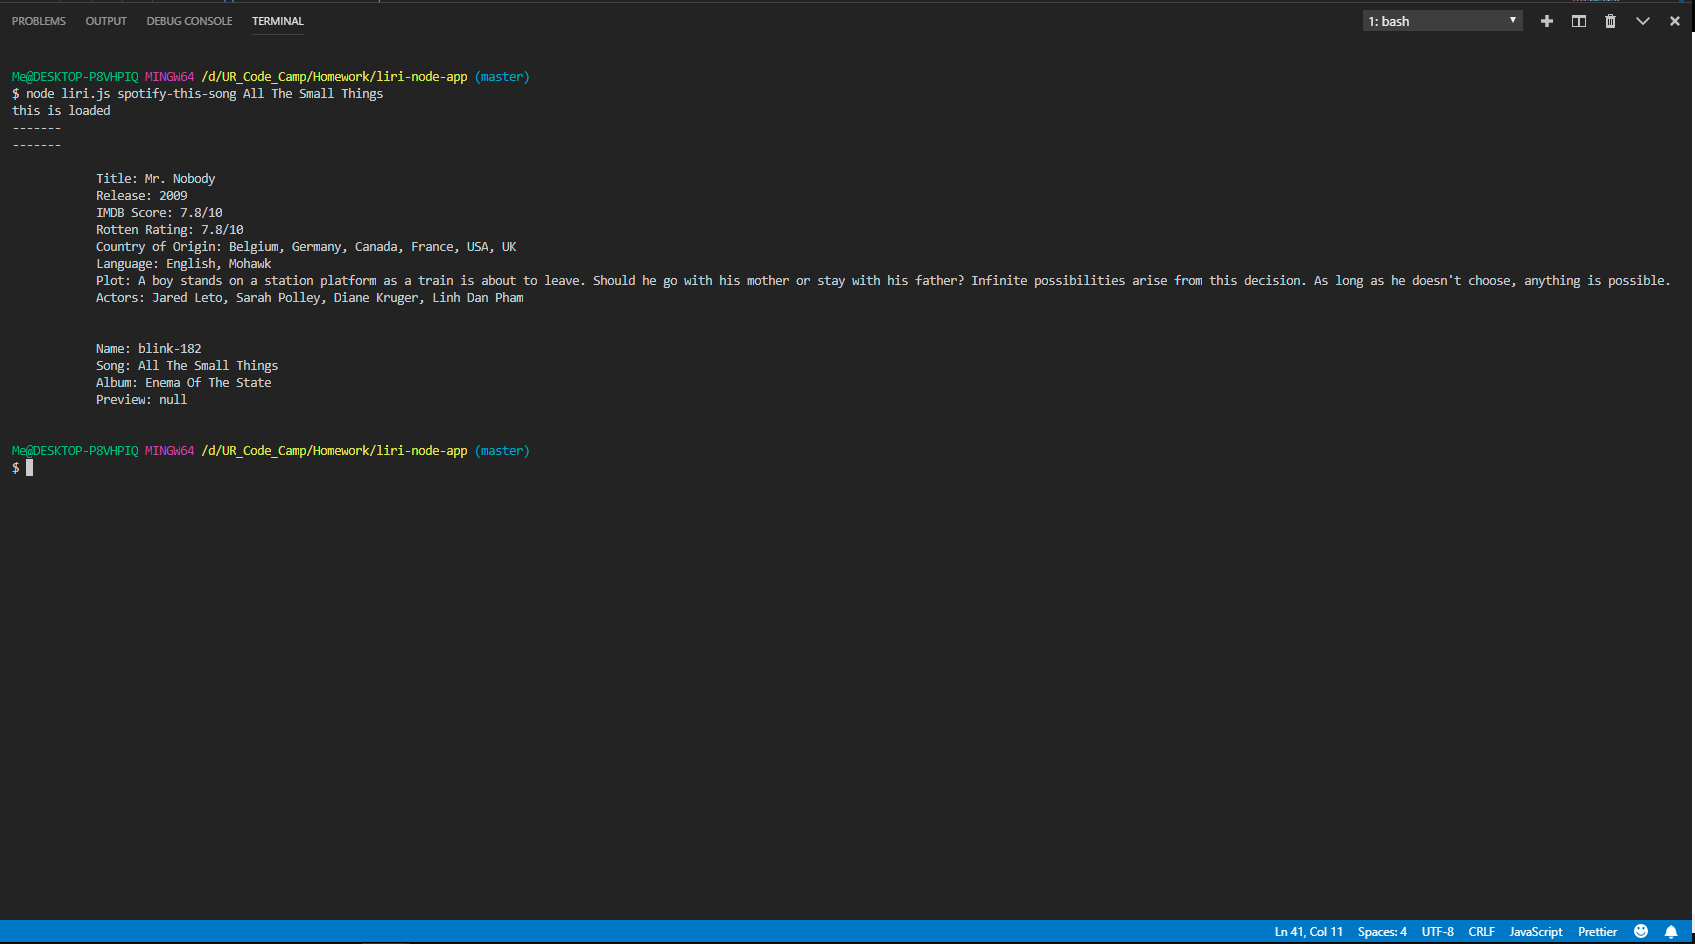
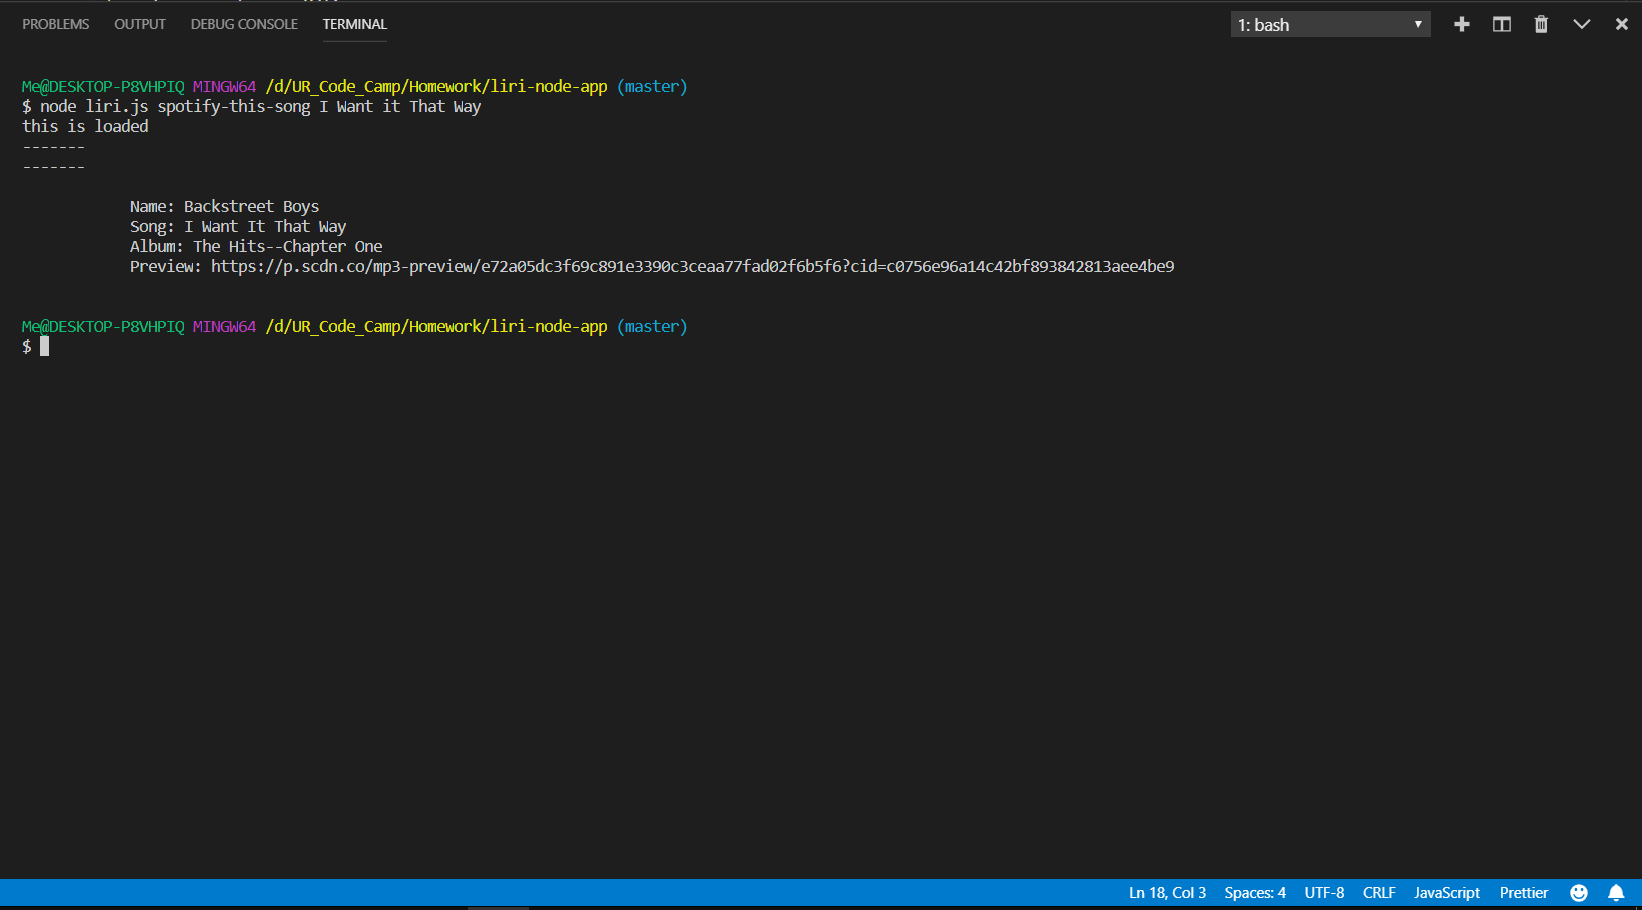
hw-submission-3

diff --git a/liri.js b/liri.js
@@ -15,20 +15,20 @@ var movieSearch = searchPrompt.slice(3).join("+");
 var spotifySearch = searchPrompt.slice(3).join("+");
 fs.readFile("random.txt", "utf-8", (err, data) => {
     if (err) throw err;
-    console.log(data);
+//    console.log(data);
 });
 //-------------------- WORK IN PROGRESS-------------------------------------------
 // DO-WHAT-IT-SAYS ARGUMENT
 if (searchPrompt[2] === "do-what-it-says") {
     fs.readFile("random.txt", "utf-8", (err, data) => {
         if (err) throw err;
-        var doSpoty = data.split(" ");
-        var doSpoty2 = doSpoty[0].slice(19, 20);
-        console.log(doSpoty2);
+        var doSpoty = data.split(",");
+        var doSpoty2 = doSpoty[1].t;
+    //    console.log(doSpoty2);
     spotify
     .search({type: "track", query: data})
     .then(function(songResponse) {
-     //   console.log(songResponse);
+    //    console.log(songResponse);
         var artistName = songResponse.tracks.items[0].album.artists[0].name;
         var songName = songResponse.tracks.items[0].name;
         var albumName = songResponse.tracks.items[0].album.name;
@@ -41,7 +41,7 @@ if (searchPrompt[2] === "do-what-it-says") {
         `)
     });
 });
-};*/
+};
 //-----------------------COMPLETED-------------------------------
 // SPOTIFY API LINK
 console.log("-------");
@@ -93,35 +93,7 @@ if (searchPrompt[2] === "spotify-this-song") {
         }); 
  }; 
  // OMDB API
-  if (searchPrompt[2] === "movie-this") {
-    axios
-        .get(`http://www.omdbapi.com/?apikey=${omdbKey}&t=${movieSearch}`)
-        .then(function(movieResponse) {
-          var movieResults = movieResponse.data;
-              console.log(`
-              Title: ${movieResults.Title}
-              Release: ${movieResults.Year}
-              IMDB Score: ${movieResults.Ratings[0].Value}
-              Rotten Rating: ${movieResults.Ratings[1].Value}
-              Country of Origin: ${movieResults.Country}
-              Language: ${movieResults.Language}
-              Plot: ${movieResults.Plot}
-              Actors: ${movieResults.Actors}
-              `); 
-        })
-        .catch(function(error) {
-            if (error.response) {
-                console.log(error.response.data);
-                console.log(error.response.data.status);
-                console.log(error.response.data.header);
-            } else if (error.request) {
-                console.log(error.request);
-            } else {
-                console.log("Error", error.message)
-            }
-            console.log(error.config)
-        }); 
-  } if (searchPrompt[2] === "movie-this");
+ if (searchPrompt[2] === "movie-this" && searchPrompt[3] === undefined) {
         axios
         .get(`http://www.omdbapi.com/?apikey=${omdbKey}&t=Mr.+Nobody`)
         .then(function(nobodyResponse) {
@@ -136,6 +108,35 @@ if (searchPrompt[2] === "spotify-this-song") {
             Plot: ${mrNobody.Plot}
             Actors: ${mrNobody.Actors}
             `);
-        } 
-        ); 
+        }); 
+    } else if (searchPrompt[2] === "movie-this") 
+        axios
+            .get(`http://www.omdbapi.com/?apikey=${omdbKey}&t=${movieSearch}`)
+            .then(function(movieResponse) {
+              var movieResults = movieResponse.data;
+         //     console.log(movieResults);
+                  console.log(`
+                  Title: ${movieResults.Title}
+                  Release: ${movieResults.Year}
+                  IMDB Score: ${movieResults.Ratings[0].Value}
+                  Rotten Rating: ${movieResults.Ratings[1].Value}
+                  Country of Origin: ${movieResults.Country}
+                  Language: ${movieResults.Language}
+                  Plot: ${movieResults.Plot}
+                  Actors: ${movieResults.Actors}
+                  `); 
+            })
+            .catch(function(error) {
+                if (error.response) {
+                    console.log(error.response.data);
+                    console.log(error.response.data.status);
+                    console.log(error.response.data.header);
+                } else if (error.request) {
+                    console.log(error.request);
+                } else {
+                    console.log("Error", error.message)
+                }
+                console.log(error.config)
+            }); 
+
 //---------------------------------------------------------------

diff --git a/README.md b/README.md
@@ -6,10 +6,13 @@ liri-node-app is an application that allows its user to obtain information perta
 
 This application operates via the Command Line Interace and takes in a maximum of two arguments. The first argument determines which database that liri will query with the second argument. The second argument is user's search term(s). There are four possible first arguments and they are as follows:
 
+
 1. `concert-this``
 2. `do-what-it-says``
 3. `movie-this``
 4. `spotify-this-song``
+
+Please be advised that screen shots of functioning examples of each argument can be found at (./assets/images).
 
 ---`concert-this``---
 Entering `concert-this`` as your first argument allows liri to query bandsintown to obtain a music artist's current tour schedule. Information that will be displayed include the date and location of each individual event as well as the name of the venue that the show will be located.
